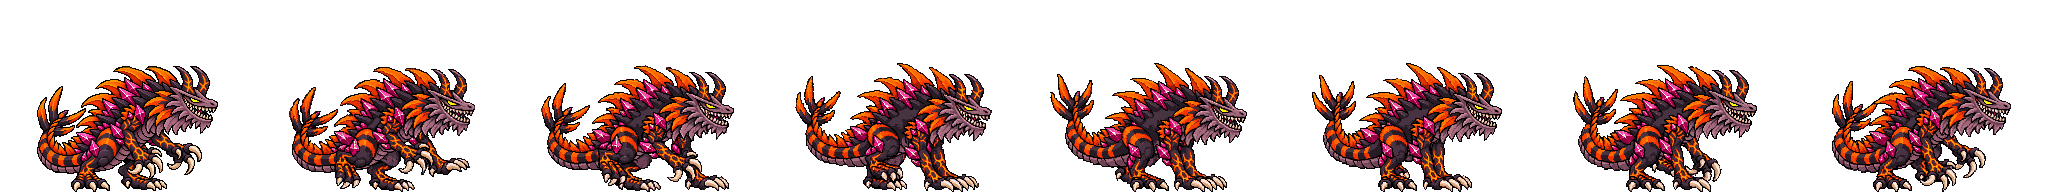
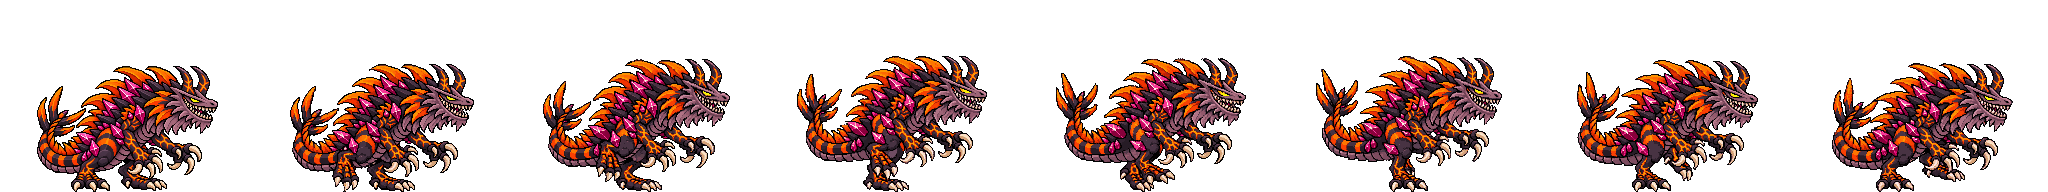
Make Tlézcatl Stage 3 walk a theropod stalk with the hands raised
Regenerated as a bipedal walk on the hind legs only (seed 0; seed 3 put
the hands on the street, seed 7 swung the tail out). The clawed hands stay
raised in front of the chest and never drop below the base pose. Eye
restored, frames 1-4 bottom-aligned (frame 4 floated 4px), pinholes filled.

Claude-Session: https://claude.ai/code/session_01SJ9dCyncznUfWVFLpjF6HR

Changed region(s): [[0.125, 0.2812, 1.0, 1.0]]

diff --git a/src/presentation.ts b/src/presentation.ts
@@ -51,8 +51,8 @@ const TZ1_NATIVE={scale:128/256,anchor:64+128*128/256};
 const TZ1_LEFT={scale:128/256,anchor:24+128*128/256};
 // Tlézcatl Stage 3 strips: the tlezcatl-s3 base still, a 181x126 hunched sprite at x=37 in a 256x192 frame, keyed with tools/key_render.py.
 const TZ3_NATIVE={scale:181/256,anchor:37+128*181/256};
-// Tlézcatl Stage 3 form (hunched volcanic dragon, crystal-spiked back, horned frilled head): idle (breathing loop) and walk (a lumbering
-// diagonal-pair stalk, tail kept curled) so far. `borrow`: every other move plays the Stage 1 strip until Stage 3 art exists. Same
+// Tlézcatl Stage 3 form (hunched volcanic dragon, crystal-spiked back, horned frilled head): idle (breathing loop) and walk (a bipedal
+// theropod stalk on the hind legs only, clawed hands held raised in front of the chest, never touching the street) so far. `borrow`: every other move plays the Stage 1 strip until Stage 3 art exists. Same
 // 120-unit width as Mogurodon's Stage 3, which makes him about 84 units tall, much bulkier than the flat Stage 1 salamander.
 const TLEZCATL_S3:Form={width:120,borrow:true,anims:{idle:{src:'assets/tlezcatl-s3-idle.png',frames:8,fps:8,...TZ3_NATIVE},
   walk:{src:'assets/tlezcatl-s3-walk.png',frames:8,fps:10,...TZ3_NATIVE}}};

diff --git a/README.md b/README.md
@@ -68,7 +68,7 @@ Score is earned points minus actual HP damage penalty, including healed damage. 
 
 **Tlézcatl Stage 1 art (just started, the base form):** `tlezcatl-s1.png` is the low-slung volcanic salamander (dark purple hide, lava-orange stripes, flame-spine crest, yellow eye), keyed from the transparent render with `tools/key_render.py` (grid 11.165x10.725 px per art pixel) to a 128x59 sprite at x=64, feet on the bottom row of a 256x192 frame (`TZ1_NATIVE`: scale 128/256, anchor 128). `tlezcatl-s1-idle` (breathing loop, 8 fps) and `tlezcatl-s1-walk` (sprawling lizard crawl, 10 fps) are 8-frame PixelLab strips generated from the base with it as the last frame so they loop. PixelLab dulled the eye to orange, so `fix_eye.py --ref tlezcatl-s1.png --region 157,161,175,182 --radius 10` restores it (the default colour test also matches the orange spines, hence the tight box), then `fill_pinholes.py` and `remove_specks.py`; walk frame 2 was bottom-aligned (1px). `tlezcatl-s1-run` (Shift / double-tap, 15 fps) is an 8-frame bounding sprint generated from the base with it as the last frame (seed 0; seed 7 was only a stretched walk), body low and long with a lift on frame 4 and dust kicked back; eye restored with the same `fix_eye.py` call, then `fill_pinholes.py` and `remove_specks.py`. Width 120 like the others, which makes him about 55 units tall at Stage 1, lower than Kaiban, since he is built long and flat. The light combo (`TZ1_LEFT`: the base shifted 40px left to x=24, anchor 88, so the lunges stay in the frame; 8-frame strips at Stage 1's 24/21/20 fps, each ending on that shifted base): `tlezcatl-s1-light1` is a near-claw rake that reaches past the snout with an orange slash arc on frame 3 (seed 21; the default seed lifted the paw over the back and swept the arc behind him); `tlezcatl-s1-light2` is a snapping lunge bite, head and shoulders shooting forward low with the jaws gaping; `tlezcatl-s1-light3` is a scorpion tail whip, the tail curling up over the back and cracking down in front of the snout with a small spark on frame 4 (seed 7; the default seed's impact explosion was half his body length). Eyes restored with `fix_eye.py --ref` (the shifted base) `--region 157,161,135,142 --radius 14 --max-err 9000`; the bite's reared, gaping frames 1-4 fail the match, so their dulled orange eye blobs were recoloured to the base's yellow by row instead. Then `fill_pinholes.py` and `remove_specks.py` (MAX 12, the bite's spatter and the whip's trailing dust). The heavy (also `TZ1_LEFT`, Stage 1 timing) is cut from one 16-frame rear-and-slam generation from the shifted base, closed on it (seed 7; seed 0 flared the crest off the top of the frame): `tlezcatl-s1-heavy-rear` (frames 0-4: draws back and rears up onto the hind legs and tail, claws raised, 20 fps) and `tlezcatl-s1-heavy-slam` (frames 8-15: crashes chest and claws into the street in a lava burst, dust trails off, settles into the crouch, 16 fps; it starts on the crash, so the hit shows the moment K is released). `tlezcatl-s1-heavy-hold` is a 4-frame loop generated from the peak pose (seed 7) in which the crest glows and then bursts into real flame; played as frames 0,2,3,2 so it pulses instead of snapping back (10 fps). PixelLab dulled the eye again and the reared head defeats `fix_eye.py`'s matcher, so the orange eye blobs on rear 1-4, every hold frame and slam 3-6 were recoloured to the base's yellow by row (slam 7 matched the base normally). Then `fill_pinholes.py` and `remove_specks.py` (MAX 12; MAX 4 on the hold so the flame licks survive). Flame Jet strips (`TZ1_LEFT`): PixelLab painted fire into the wind-up even when told not to, so `tlezcatl-s1-jet-start` (5 frames, 22 fps) is frames 0 and 2 of an inhale-and-gape generation (seed 0, the inhale), two in-betweens from a 4-frame generation bridging its frame 2 to its fire-free last frame (seed 3, prompted without any fire words), and that last frame, the jaws-wide breath pose. `tlezcatl-s1-jet-aim` (5 frames, never played) is that pose aimed -20/0/10/22/35 degrees: frame 8 of a head-lowering sweep from it (the head barely dips; a steeper re-roll closed the jaws), the pose itself, and frames 1-3 of a head-raising sweep (seed 3); `mouth` points are the front of the red mouth interior per frame. `tlezcatl-s1-jet-end` (4 frames, 16 fps) is a generation from the breath pose to the shifted base (jaws snap shut, settles). Eyes recoloured by blob (small orange islands ringed by outline) on every frame, then `fill_pinholes.py` and `remove_specks.py` (MAX 12). The crouch (`TZ1_NATIVE`, the unshifted base; Stage 1 timing): `tlezcatl-s1-crouch-down` (5 frames, seed 0: splays the legs and presses belly and chin flat to the street with the crest laid back, 59px tall to 37px, about the 38-unit crouch hitbox, 22 fps), `tlezcatl-s1-crouch` (a 4-frame breathing loop lying flat, frames 1-4 of a generation from that pose with it as the end pose, since its last frame closes on the first, 6 fps) and `tlezcatl-s1-crouch-up` (crouch-down reversed). Eyes recoloured by blob (frame 1 also has a crest marking that passes the blob test, left alone), then `fill_pinholes.py` and `remove_specks.py` (MAX 12). The climb set (256x256, `TZ1_NATIVE`, generated from the base padded to 256 tall with the feet on the bottom row) clings like a gecko: body vertical, belly to the wall, head up, tail hanging, with the gripping claws on the wall line at frame x=154 (the 24-unit hitbox edge at this scale). PixelLab drew no wall for any of them. `tlezcatl-s1-climb-grab` is frames 0-3 and 8 of an 8-frame leap onto the wall (seed 7; seed 0 snapped straight from the crouch to the cling), every frame bottom-aligned with the claws easing 46px onto the wall line; `tlezcatl-s1-climb` (seed 7) is a hand-over-hand loop closed on the cling pose; `tlezcatl-s1-climb-punch` draws the upper claw back and slams it into the wall with a flash on impact frame 5 (seed 3; the first roll twisted round and struck away from the wall, so the prompt pins the strike to the right); `tlezcatl-s1-climb-mantle` hauls onto the roof, landing upright and dropping onto all fours, ending on the base pose, bottom-aligned with the shift starting 15px further back (the game's 0.3-body-width roof slide) and easing to 0. The cling, climb and punch frames are shifted 46px left and 75px down (tail tip on the bottom row). Eyes recoloured by blob; where no blob was found, from the neighbouring frames' head position and checked by eye (the punch's frames 5-6 needed a looser colour test for a darker orange). Then `fill_pinholes.py` and `remove_specks.py` (MAX 12; MAX 4 on the punch so its sparks survive). Frame counts, fps and impact match the other forms. Grab/carry/throw (`TZ1_NATIVE`, Stage 1 timing, all generated without any object): `tlezcatl-s1-grab` (9 frames, seed 7; seed 0 barely scooped) dips the snout and slides both front claws under the prop at the street, then rears up onto the hind legs and tail with both claws pressed overhead, head thrown back; `tlezcatl-s1-carry` (4-frame loop from the grab's last frame, closed on it) strains upright with the claws locked up; `tlezcatl-s1-carry-walk` (8-frame loop, closed the same way) waddles forward upright; `tlezcatl-s1-throw` (8 of 9 generated frames, the near-duplicate frame 1 dropped so the swing arcs land on frame 1 as the prop launches on the key press) whips both claws forward and down and drops back onto all fours, ending on the base pose. `hold` points: grab frames 0-3 keep the prop on the street in front of the claws, frame 4 lifts it at the front claws, then they sit midway between the two raised claws on the claw tips. Eyes recoloured by blob on grab 1-4 and throw 4-8 (the upright frames show no eye), carry, carry-walk and throw bottom-aligned (1-3px), then `fill_pinholes.py` and `remove_specks.py` (MAX 12; MAX 4 on the throw so the arcs survive). The Stage 1 form is the base, drawn at Stages 1 and 2; Stage 3 has its own form (below). The Mexico City rival is still the geometric stand-in. `tlezcatl-s1-dive` (4 frames: frames 0-3 of a 9-frame generation, tipping nose-down from the base into a vertical head-first plunge, bottom-aligned, held on the last) and `tlezcatl-s1-slam-land` (frames 1-8 of a generation from that plunge on the street with the base as the last frame: the snout drives in with a lava burst both sides, belly-flop, push back up) are `TZ1_NATIVE`; pinholes filled.
 
-**Tlézcatl Stage 3 art (started, registered as `stages[3]` with `borrow`):** `tlezcatl-s3.png` is the hunched volcanic dragon (crystal-spiked back, flame spines, horned frilled head, curled striped tail). `tools/key_render.py` locked onto the half-period harmonic of the render's grid (362 px wide, a 2-cell outline), so it was rerun with `--width 181`: grid 8.006 px, a 181x126 sprite at x=37, feet on the bottom row of a 256x192 frame (`TZ3_NATIVE`: scale 181/256, anchor 127.5). Width 120 like Mogurodon's Stage 3, about 84 units tall. `tlezcatl-s3-idle` (breathing loop, 8 fps) and `tlezcatl-s3-walk` (lumbering diagonal-pair stalk, 10 fps) are 8-frame PixelLab strips from the base with it as the last frame. The first walk roll (seed 0) uncurled the tail into a whip that ran off the frame's left edge; the prompt now pins the tail curled over the hips, and seed 3 was kept (seed 7 held the silhouette but barely moved the legs). The eye went dull in every generated frame; `fix_eye.py --ref tlezcatl-s3.png --region 96,104,189,200 --radius 10` restores it (all frames matched), then `fill_pinholes.py` and `remove_specks.py`; walk frames 1-2 were bottom-aligned (1px). Every other move borrows the Stage 1 strip until Stage 3 art exists.
+**Tlézcatl Stage 3 art (started, registered as `stages[3]` with `borrow`):** `tlezcatl-s3.png` is the hunched volcanic dragon (crystal-spiked back, flame spines, horned frilled head, curled striped tail). `tools/key_render.py` locked onto the half-period harmonic of the render's grid (362 px wide, a 2-cell outline), so it was rerun with `--width 181`: grid 8.006 px, a 181x126 sprite at x=37, feet on the bottom row of a 256x192 frame (`TZ3_NATIVE`: scale 181/256, anchor 127.5). Width 120 like Mogurodon's Stage 3, about 84 units tall. `tlezcatl-s3-idle` (breathing loop, 8 fps) and `tlezcatl-s3-walk` (bipedal theropod stalk, 10 fps) are 8-frame PixelLab strips from the base with it as the last frame. The walk is on the hind legs only: one foot planted at a time, the clawed hands held raised in front of the chest and never touching the street (they lift as he strides; the lowest hand pixel never drops below the base's). Seed 0 of a prompt describing a stalking tyrannosaur with the hands raised and the tail curled; seed 3 put the hands on the street on frame 7, and seed 7 swung the tail further out. An earlier four-legged stalk was replaced. The eye went dull in every generated frame; `fix_eye.py --ref tlezcatl-s3.png --region 96,104,189,200 --radius 10` restores it (all frames matched), then `fill_pinholes.py` and `remove_specks.py`; walk frames 1-3 were bottom-aligned 1px and frame 4, which floated, 4px. Every other move borrows the Stage 1 strip until Stage 3 art exists.
 
 **Per-stage forms:** `SPRITES[name]` is the base form (for Mogurodon, the art above is its Stage 2 design, also used for Stage 3); `stages[n]` overrides it for one stage. Inside a stage form a missing strip falls back to that form's own `idle`, while gameplay timing (`animDuration`/`animImpact`) borrows the base strip's, so combat is unchanged until a form's strips are animated. Mogurodon Stage 1 (`assets/mogurodon-s1.png`) is the transparent render keyed with `tools/key_render.py` (grid 9.30x9.095 px per art pixel): a 151x113 native sprite at x=52, feet on the bottom row of a 256x192 frame. All 25 Stage 1 strips are generated from it with PixelLab and registered with `S1_NATIVE` (scale 151/256, anchor 127.5); frame counts, fps and impact frames match the previous art. The old padded bases (`mogurodon-s1-pad.png`, `mogurodon-s3-pad.png`) and `S1_PAD` are gone. Moves: idle and walk loops; light combo near (left) paw swipe, far (right) paw swipe (prompted with the near leg pinned so the far paw rises behind the head and slashes across) and lunge-bite; heavy rear/slam cut from one 16-frame generation (rear 0-4, slam 8-15) plus a hold loop from the peak; no tail, so the ranged shot arches the back like a hissing cat with the quills bristling (standing and crouched); crouch down/loop/up; jump rise, a 4-frame airborne gallop (frames 1-4 of its generation) and landing; Seismic Rupture howl (9 of 17 frames, 0,2,3,6,9,12,13,14,16, crash with the dust burst on impact frame 5) and a two-paw pound loop; climb with the gripping paws on the wall line at frame x=158 (PixelLab painted a thin brown post at x=215, erased with `post.py`-style column detection since the paws cut it into short pieces; the mantle starts 18px back and eases to 0); grab, carry and carry-walk with per-frame `hold` points (grab frame 7 holds at the forward paws mid-lift) and a throw generated without any object. Gold eye restored against the base plus crouch, heavy-peak and Ultimate-pose references; the reared carry pose tips the head back behind the arms, so carry frames have no eye. Add strips to `stages[1].anims`. Mogurodon Stage 3 (`assets/mogurodon-s3.png`) is the transparent render keyed with `tools/key_render.py`, which measures the render's real pixel grid (about 8.055x7.77 px per art pixel, offset) and keys by alpha, so the sprite keeps its outline and comes out at native resolution: 173x134 at x=41, feet on the bottom row of a 256x192 frame. Every Stage 3 strip is generated from it with PixelLab and registered with `S3_NATIVE` (scale 173/256, anchor 127.5) so it draws at the old width and foot position; frame counts, fps and impact frames match the previous art, so combat timing is unchanged. (The previous base was keyed from a black-background render by brightness on an assumed 8px grid, which ate the outline and joint creases and doubled pixels unevenly; every strip inherited the gaps.) Idle and walk are loops closed with the base as first and last frame. Light combo: near-arm (left) strike with a short pink streak, swipe with the other arm: the arm hanging against the chest winds back behind the body, arcs over and slashes forward past the snout with a pink arc while the leading arm stays put (generated with the base as the last frame so it settles back; earlier versions swung the leading arm again with a floating extra fist behind the head), low lunge-bite. Heavy: one 17-frame rear-and-slam generation cut into `heavy-rear` (frames 0-4) and `heavy-slam` (frames 8-14 and 16: crash with dust and crystal shards, settle), plus a 4-frame `heavy-hold` from the peak pose (re-rolled: a "trembling" prompt scattered dark specks). The reared peak touches the top of the 192px frame. Jump: rise, 4-frame air loop from its last frame and landing, bottom-aligned, landing debris stripped. Ranged: tail whips over the back; the detached shard PixelLab drew (it flew backwards) is erased since the game draws the projectile; the crouched shot flicks the tail while staying flat. Crouch: crouch-down, breathing loop from its last frame, crouch-up = crouch-down reversed. Climb (256x256): PixelLab paints a wall even when told not to; `tools/remove_wall.py` and a wall-line pass erase it, and the wall frames are shifted so the gripping claws sit on the wall line at frame x=162 (hitbox edge, 24 world units from the origin). The mantle starts a further 21px back (the game slides him 0.3 body widths onto the roof) and eases to 0 by its base-pose last frame. Ultimate: the roar is 8 of a 17-frame generation (frames 0,1,2,4,9,11,13,16) so the crash into the crystal eruption lands on impact frame 5; the 16-frame pound loop slams the near claw then the far claw with dust and sparks. Grab/carry/throw: the grab scoops then rears with both claws overhead (a rock PixelLab drew in frame 1 is erased); carry and carry-walk loop from its last frame and the throw ends on the base pose. Grab, carry and carry-walk have per-frame `hold` points measured on the fists. PixelLab washes the gold eye out after frame 0, so `tools/fix_eye.py` restores it against the base and, for frames it cannot match, against wide-search references for the crouch, carry and heavy-peak poses; `--max-err 9000` skips frames where the head is turned or hidden (grab scoop frames 2-5, the upright roar, the head-down pound loop). Every strip then gets `fill_pinholes.py` and `remove_specks.py`. Request PixelLab frame counts in multiples of 4 (the strip gets the input frame plus that many). Add further strips to `stages[3].anims`. `tools/prep_form_base.py` keys a black-background render and fits it into a frame for that.
 
